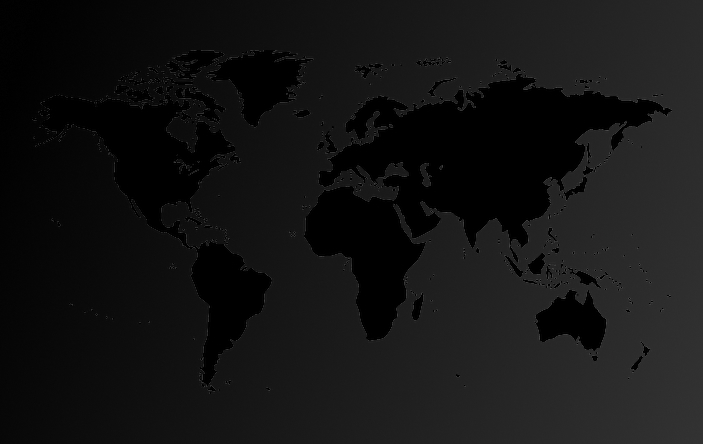
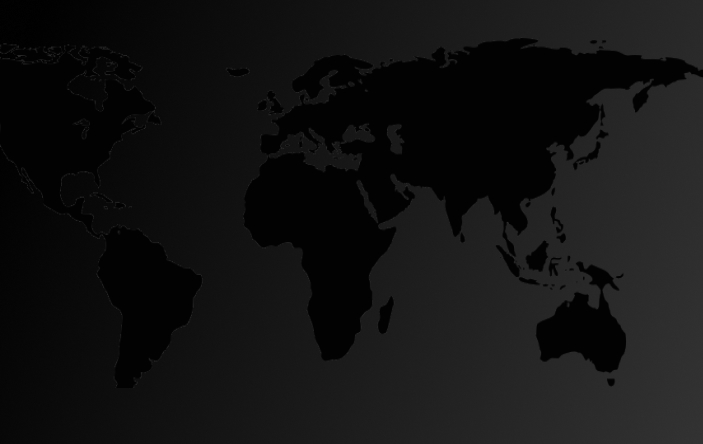
vali

diff --git a/sitio/public/javascript/productValidator.js b/sitio/public/javascript/productValidator.js
@@ -4,12 +4,15 @@ const textarea = document.querySelectorAll('#formulario textarea')
 
 const expresiones = {
 	nombre: /^[a-zA-ZÀ-ÿ0-9\s]{5,30}$/, // Letras, pueden llevar acentos, y numeros.
+	nombreEdit :/^[a-zA-ZÀ-ÿ0-9\s]{5,30}$/,
 	descripcion:/^[a-zA-ZÀ-ÿ0-9\s]{20,500}$/, // Letras, pueden llevar acentos.
 };
 
 const campos = [
 	nombre = false,
 	descripcion = false,
+	nombreEdit = false,
+	descripEdit = false,
 	imagen = false 
 ]
 
@@ -33,6 +36,24 @@ validarFormulario = (e) => {
 				campos['nombre'] = false
 			}
 		break;
+		case  "names":
+			if (expresiones.nombreEdit.test(e.target.value)) {
+				document.getElementById('grupo__nombre').classList.remove('formulario__grupo-incorrecto');
+				document.getElementById('grupo__nombre').classList.add('formulario__grupo-correcto');
+				document.querySelector('#grupo__nombre i').classList.add('fa-check-circle')
+				document.querySelector('#grupo__nombre i').classList.remove('fa-times-circle')
+				document.querySelector('#grupo__nombre .formulario__input-error').classList.remove('formulario__input-error-activo')
+				campos['nombreEdit'] = true;
+			} else{
+				document.getElementById('grupo__nombre').classList.add('formulario__grupo-incorrecto');
+				document.getElementById('grupo__nombre').classList.remove('formulario__grupo-correcto');
+				document.querySelector('#grupo__nombre i').classList.add('fa-times-circle')
+				document.querySelector('#grupo__nombre i').classList.remove('fa-check-circle')
+				document.querySelector('#grupo__nombre .formulario__input-error').classList.add('formulario__input-error-activo')
+
+				campos['nombreEdit'] = false
+			}
+			break;
 		case  "description":
 			if (expresiones.descripcion.test(e.target.value)) {
 				document.getElementById('grupo__descripcion').classList.remove('formulario__grupo-incorrecto');
@@ -50,9 +71,26 @@ validarFormulario = (e) => {
 
 				campos['descripcion'] = false
 			}
-				
-			
 		break;
+
+		case  "descrip":
+			if (expresiones.descripcion.test(e.target.value)) {
+				document.getElementById('grupo__descripcion').classList.remove('formulario__grupo-incorrecto');
+				document.getElementById('grupo__descripcion').classList.add('formulario__grupo-correcto');
+				document.querySelector('#grupo__descripcion i').classList.add('fa-check-circle')
+				document.querySelector('#grupo__descripcion i').classList.remove('fa-times-circle')
+				document.querySelector('#grupo__descripcion .formulario__input-error').classList.remove('formulario__input-error-activo')
+				campos['descripEdit'] = true;
+			} else{
+				document.getElementById('grupo__descripcion').classList.add('formulario__grupo-incorrecto');
+				document.getElementById('grupo__descripcion').classList.remove('formulario__grupo-correcto');
+				document.querySelector('#grupo__descripcion i').classList.add('fa-times-circle')
+				document.querySelector('#grupo__descripcion i').classList.remove('fa-check-circle')
+				document.querySelector('#grupo__descripcion .formulario__input-error').classList.add('formulario__input-error-activo')
+
+				campos['descripEdit'] = false
+			}
+			break;
 		case  "image":
 			if (e.target.files.length <= 1 && e.target.files.length > 0) {
 				document.getElementById('grupo__imagen').classList.remove('formulario__grupo-incorrecto');
@@ -82,11 +120,13 @@ validarFormulario = (e) => {
 inputs.forEach((input) => {
 	input.addEventListener('keyup', validarFormulario);
 	input.addEventListener('blur', validarFormulario);
+	input.addEventListener('mousemove', validarFormulario);
 });
 
 textarea.forEach((txtarea) => {
 	txtarea.addEventListener('keyup', validarFormulario);
 	txtarea.addEventListener('blur', validarFormulario);
+	txtarea.addEventListener('mousemove', validarFormulario);
 })
 
 formulario.addEventListener('submit', (e) => {
@@ -94,6 +134,9 @@ formulario.addEventListener('submit', (e) => {
 
 	if (campos.nombre && campos.descripcion && campos.imagen) {
 		formulario.submit()
+	}else if(campos.nombreEdit && campos.descripEdit){
+		formulario.submit();
+		console.log(campos);
 	}else{
 		document.getElementById('formulario__mensaje').classList.add('formulario__mensaje-activo');
 	}

diff --git a/sitio/src/controllers/adminController.js b/sitio/src/controllers/adminController.js
@@ -62,11 +62,21 @@ module.exports = {
                 db.Image.bulkCreate(images,{validate : true})
                 .then(() => console.log('Imagenes guardadas'))
             }
-            return res.redirect('/')
+            return res.redirect('/admin/products')	
         })
         .catch(error => console.log(error))
 
-        } db.Category.findAll({
+        } else {
+            
+                 if (req.files[0]) {
+                    req.files.forEach(imagen => {
+                        if(fs.existsSync('../../public/images/products'+ imagen.file)){
+                            fs.unlinkSync('../../public/images/products' + imagen.file)
+                        }
+                    })
+         }
+        
+         db.Category.findAll({
             order : [
                 ['name','ASC']
             ]
@@ -78,7 +88,7 @@ module.exports = {
             }))
             .catch(error => console.log(error))
      
-       
+        }
     },
     edit: (req,res) => {
         let categories = db.Category.findAll(

diff --git a/sitio/public/css/compra.css b/sitio/public/css/compra.css
@@ -177,11 +177,10 @@ content: none;
 	height: 100%;
 	width: 100%;
 	top: 0; left: 0;
+	object-fit: contain;
 	background-image: url(/images/worldmap.jpg);
-	
-	background-size: 400px;
+	background-size: 400px; 
 	background-repeat: no-repeat;
-	
 	border-radius: 5px;
 	backface-visibility: hidden;
 	box-shadow: 0 15px 25px rgb(0,0,0,0.2);

diff --git a/sitio/public/javascript/contador.js b/sitio/public/javascript/contador.js
@@ -1,4 +1,4 @@
-
+/* 
     var countDownDate = new Date("Jan 1, 2022 00:00:00").getTime();
     var x = setInterval(function(){
     var now = new Date().getTime();
@@ -13,4 +13,4 @@
     document.getElementById("minutes").innerHTML = minutes;
     document.getElementById("seconds").innerHTML = seconds;
 
-},1000) 
+},1000)  */
